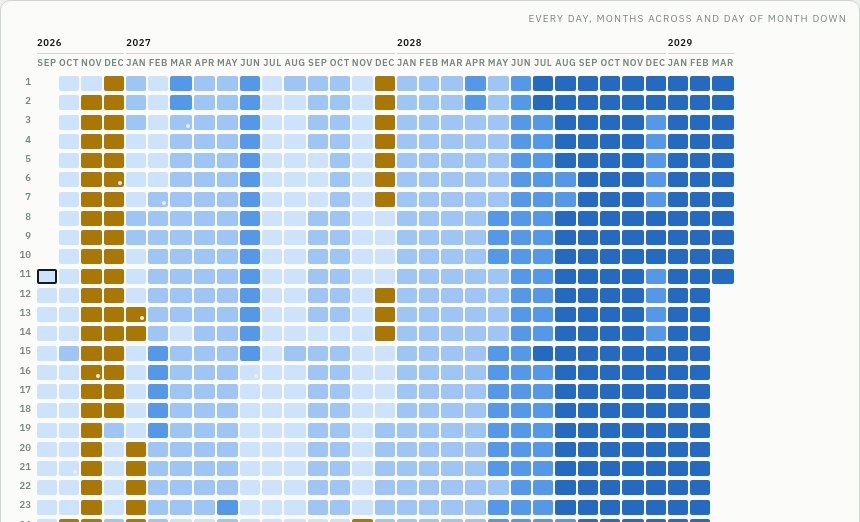
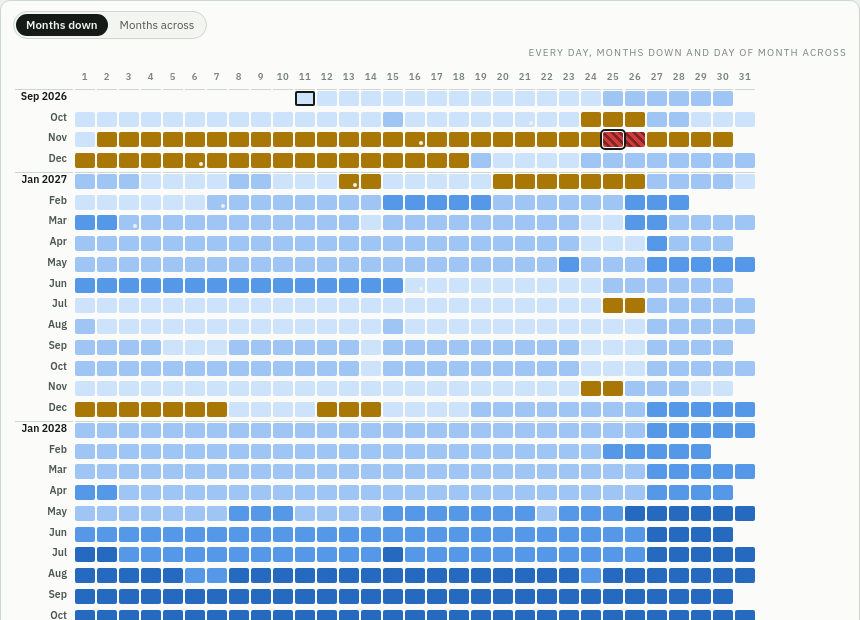
Lay the calendar out as a wall calendar, with the old way a click away
A month per row and the days across, years marked down the left: a year of days
fits on one screen that way, and a tight fortnight reads as a run of amber
rather than as a column to decode. It is the default now; "Months across" turns
it back to the prototype's layout, which packs more months into the same width.

The arrow keys follow the grain of whichever layout is on, so left and right
always mean the cell next to this one on screen — a day in the yearly layout, a
month in the compact one. The caption says which way round it is, and the model
carries both readings of the same cells, checked against each other: the two
layouts hold exactly the same days.

The layout is component state rather than a remembered preference, since this is
a trial; if it stays, it joins the others. The README's grid picture is the new
layout.

diff --git a/src/ui/GridChart.svelte b/src/ui/GridChart.svelte
@@ -16,6 +16,9 @@
 
   const grid = $derived(gridModel(forecast, forecast.buffer));
   let hovered = $state<PlainDate | null>(null);
+  /* Months down and days across reads like a wall calendar, and a year fits on
+     one screen; the other way round packs more months into less width. */
+  let layout = $state<'yearly' | 'compact'>('yearly');
 
   const readout = $derived.by(() => {
     const day = forecast.dayAt(hovered ?? target);
@@ -26,13 +29,20 @@
     }`;
   });
 
-  /** Arrow keys walk a day at a time, or a month sideways. */
+  /**
+   * Arrow keys follow the layout: they walk a day along the grain and a month
+   * across it, so left and right always mean "next to this one on screen".
+   */
   function keys(event: KeyboardEvent, date: PlainDate): void {
-    const step = { ArrowUp: -1, ArrowDown: 1 }[event.key];
+    const alongIsHorizontal = layout === 'yearly';
+    const day = { ArrowLeft: -1, ArrowRight: 1 }[event.key];
+    const month = { ArrowUp: -1, ArrowDown: 1 }[event.key];
     let next: PlainDate | null = null;
-    if (step !== undefined) next = addDays(date, step);
-    else if (event.key === 'ArrowLeft') next = addMonths(date, -1);
-    else if (event.key === 'ArrowRight') next = addMonths(date, 1);
+
+    if (alongIsHorizontal && day !== undefined) next = addDays(date, day);
+    else if (alongIsHorizontal && month !== undefined) next = addMonths(date, month);
+    else if (!alongIsHorizontal && month !== undefined) next = addDays(date, month);
+    else if (!alongIsHorizontal && day !== undefined) next = addMonths(date, day);
     else if (event.key === 'Enter' || event.key === ' ') next = date;
     else return;
 
@@ -44,14 +54,74 @@
   }
 </script>
 
+{#snippet cell(item: NonNullable<(typeof grid.rows)[number]['cells'][number]>)}
+  <button
+    type="button"
+    id={`cell-${item.date}`}
+    class="cell"
+    class:selected={item.date === target}
+    class:today={item.today}
+    data-band={item.band}
+    data-plan={item.planned ? 1 : 0}
+    tabindex={item.date === target ? 0 : -1}
+    aria-label={`${shortDate(item.date)}: ${formatEUR(item.balance, { cents: false })}, ${BAND_MEANING[item.band]}`}
+    onpointerenter={() => (hovered = item.date)}
+    onfocus={() => (hovered = item.date)}
+    onclick={() => onpick(item.date)}
+    onkeydown={(event) => keys(event, item.date)}
+  ></button>
+{/snippet}
+
 <section class="frame">
+  <div class="head">
+    <div class="layouts no-print" role="group" aria-label="How to lay the calendar out">
+      {#each [['yearly', 'Months down'], ['compact', 'Months across']] as [key, label] (key)}
+        <button
+          type="button"
+          class:on={layout === key}
+          aria-pressed={layout === key}
+          onclick={() => (layout = key as 'yearly' | 'compact')}
+        >
+          {label}
+        </button>
+      {/each}
+    </div>
+  </div>
   <p class="caption">
-    EVERY DAY, MONTHS ACROSS AND DAY OF MONTH DOWN{grid.monthsHidden > 0
+    {layout === 'yearly'
+      ? 'EVERY DAY, MONTHS DOWN AND DAY OF MONTH ACROSS'
+      : 'EVERY DAY, MONTHS ACROSS AND DAY OF MONTH DOWN'}{grid.monthsHidden > 0
       ? ` — FIRST ${grid.months.length} MONTHS, ${grid.monthsHidden} MORE NOT SHOWN`
       : ''}
   </p>
 
   <div class="scroll" use:trackPointer={{ move: () => {}, leave: () => (hovered = null) }}>
+    {#if layout === 'yearly'}
+      <table class="yearly" aria-label="Projected closing balance for every day of the forecast">
+        <thead>
+          <tr>
+            <th class="month-name"></th>
+            {#each Array.from({ length: 31 }, (_, day) => day + 1) as day (day)}
+              <th scope="col">{day}</th>
+            {/each}
+          </tr>
+        </thead>
+        <tbody>
+          {#each grid.monthRows as row (row.month)}
+            <tr class:year-start={row.startsYear}>
+              <th class="month-name" scope="row">{row.label}</th>
+              {#each row.cells as item, day (day)}
+                {#if item}
+                  <td>{@render cell(item)}</td>
+                {:else}
+                  <td class="blank"></td>
+                {/if}
+              {/each}
+            </tr>
+          {/each}
+        </tbody>
+      </table>
+    {:else}
     <table aria-label="Projected closing balance for every day of the forecast">
       <thead>
         <tr>
@@ -71,27 +141,9 @@
         {#each grid.rows as row (row.dayOfMonth)}
           <tr>
             <th class="dom" scope="row">{row.dayOfMonth}</th>
-            {#each row.cells as cell, index (grid.months[index]?.month ?? index)}
-              {#if cell}
-                <td>
-                  <button
-                    type="button"
-                    id={`cell-${cell.date}`}
-                    class="cell"
-                    class:selected={cell.date === target}
-                    class:today={cell.today}
-                    data-band={cell.band}
-                    data-plan={cell.planned ? 1 : 0}
-                    tabindex={cell.date === target ? 0 : -1}
-                    aria-label={`${shortDate(cell.date)}: ${formatEUR(cell.balance, { cents: false })}, ${
-                      BAND_MEANING[cell.band]
-                    }`}
-                    onpointerenter={() => (hovered = cell.date)}
-                    onfocus={() => (hovered = cell.date)}
-                    onclick={() => onpick(cell.date)}
-                    onkeydown={(event) => keys(event, cell.date)}
-                  ></button>
-                </td>
+            {#each row.cells as item, index (grid.months[index]?.month ?? index)}
+              {#if item}
+                <td>{@render cell(item)}</td>
               {:else}
                 <td class="blank"></td>
               {/if}
@@ -100,6 +152,7 @@
         {/each}
       </tbody>
     </table>
+    {/if}
   </div>
 
   <p class="readout" aria-live="polite">{readout}</p>
@@ -122,6 +175,50 @@
     border: 1px solid var(--rule);
     border-radius: 10px;
     padding: 10px 12px 12px;
+  }
+  .head {
+    display: flex;
+    justify-content: flex-start;
+  }
+  .layouts {
+    display: inline-flex;
+    gap: 2px;
+    margin-bottom: 6px;
+    padding: 2px;
+    background: var(--sheet-2);
+    border: 1px solid var(--rule);
+    border-radius: 999px;
+  }
+  .layouts button {
+    font-size: 11.5px;
+    color: var(--ink-2);
+    background: none;
+    border: 0;
+    border-radius: 999px;
+    padding: 2px 10px;
+  }
+  .layouts button.on {
+    background: var(--ink);
+    color: var(--paper);
+    font-weight: 600;
+  }
+  table.yearly th.month-name {
+    width: 58px;
+    text-align: right;
+    padding-right: 6px;
+    color: var(--ink-2);
+    text-transform: none;
+    letter-spacing: 0;
+    font-size: 10.5px;
+    white-space: nowrap;
+  }
+  table.yearly tr.year-start th.month-name {
+    color: var(--ink);
+    font-weight: 700;
+  }
+  table.yearly tr.year-start td,
+  table.yearly tr.year-start th {
+    box-shadow: inset 0 2px 0 -1px var(--rule);
   }
   .caption {
     margin: 0 0 8px;

diff --git a/e2e/views.spec.ts b/e2e/views.spec.ts
@@ -65,23 +65,6 @@ test.describe('the two readings', () => {
     await expect(answer(page)).toContainText('€');
   });
 
-  test('the grid cells walk a day at a time and a month sideways', async ({ page }) => {
-    await openFresh(page);
-    await page.getByRole('button', { name: 'Grid', exact: true }).click();
-    const selected = page.locator('.cell.selected');
-    await selected.focus();
-    const before = await page.getByLabel('Date to read the balance on').inputValue();
-
-    await page.keyboard.press('ArrowDown');
-    const next = await page.getByLabel('Date to read the balance on').inputValue();
-    expect(Date.parse(next)).toBe(Date.parse(before) + 86_400_000);
-
-    await page.keyboard.press('ArrowLeft');
-    expect(Date.parse(await page.getByLabel('Date to read the balance on').inputValue())).toBeLessThan(
-      Date.parse(next)
-    );
-  });
-
   test('remembers which reading was on screen', async ({ page }) => {
     await openFresh(page);
     await page.getByRole('button', { name: 'Grid', exact: true }).click();
@@ -385,5 +368,51 @@ test.describe('the month detail order', () => {
     await page.getByRole('button', { name: /^The month after/ }).click();
     const down = await amounts(page);
     expect([...down].sort((a, b) => b - a)).toEqual(down);
+  });
+});
+
+test.describe('the calendar layout', () => {
+  test('reads as a wall calendar by default: a month a row, days across', async ({ page }) => {
+    await openFresh(page);
+    await page.getByRole('button', { name: 'Grid', exact: true }).click();
+
+    await expect(page.getByRole('button', { name: 'Months down' })).toHaveAttribute('aria-pressed', 'true');
+    await expect(page.locator('table.yearly')).toBeVisible();
+    await expect(page.locator('table.yearly tbody tr')).toHaveCount(31); // one per month of the forecast
+    await expect(page.locator('table.yearly thead th').nth(1)).toHaveText('1');
+    await expect(page.locator('table.yearly tbody th').first()).toHaveText('Sep 2026');
+    await expect(page.locator('.frame .caption')).toContainText('MONTHS DOWN');
+  });
+
+  test('turns the other way when asked, keeping every day', async ({ page }) => {
+    await openFresh(page);
+    await page.getByRole('button', { name: 'Grid', exact: true }).click();
+    const cells = await page.locator('.cell').count();
+
+    await page.getByRole('button', { name: 'Months across' }).click();
+    await expect(page.locator('table.yearly')).toHaveCount(0);
+    await expect(page.locator('.frame .caption')).toContainText('MONTHS ACROSS');
+    expect(await page.locator('.cell').count()).toBe(cells);
+  });
+
+  test('walks the arrow keys along the grain of whichever layout is on', async ({ page }) => {
+    await openFresh(page);
+    await page.getByRole('button', { name: 'Grid', exact: true }).click();
+    const field = page.getByLabel('Date to read the balance on');
+
+    await page.locator('.cell.selected').focus();
+    const start = await field.inputValue();
+    /* Months down: sideways is a day, up and down is a month. */
+    await page.keyboard.press('ArrowRight');
+    expect(Date.parse(await field.inputValue())).toBe(Date.parse(start) + 86_400_000);
+    await page.keyboard.press('ArrowDown');
+    expect(await field.inputValue()).not.toBe(start);
+
+    await page.getByRole('button', { name: 'Months across' }).click();
+    await page.locator('.cell.selected').focus();
+    const compactStart = await field.inputValue();
+    /* Months across: down is a day, sideways is a month. */
+    await page.keyboard.press('ArrowDown');
+    expect(Date.parse(await field.inputValue())).toBe(Date.parse(compactStart) + 86_400_000);
   });
 });

diff --git a/tests/gridModel.test.ts b/tests/gridModel.test.ts
@@ -91,3 +91,42 @@ describe('a very long horizon', () => {
     expect(grid.monthsHidden).toBe(0);
   });
 });
+
+describe('the yearly layout, months down and days across', () => {
+  it('gives one row per month, each thirty-one cells wide', () => {
+    expect(grid.monthRows).toHaveLength(grid.months.length);
+    for (const row of grid.monthRows) expect(row.cells).toHaveLength(31);
+  });
+
+  it('puts each day in the column of its own date', () => {
+    const september = grid.monthRows[0]!;
+    expect(september.month).toBe('2026-09');
+    expect(september.cells[0]).toBeNull(); // the forecast starts on the 11th
+    expect(september.cells[10]?.date).toBe('2026-09-11');
+    expect(september.cells[29]?.date).toBe('2026-09-30');
+    expect(september.cells[30]).toBeNull(); // September has thirty days
+  });
+
+  it('holds exactly the days of the forecast, like the other layout', () => {
+    const across = grid.monthRows.flatMap((row) => row.cells).filter((cell) => cell !== null);
+    const down = grid.rows.flatMap((row) => row.cells).filter((cell) => cell !== null);
+    expect(across).toHaveLength(down.length);
+    expect(across.map((cell) => cell!.date).sort()).toEqual(down.map((cell) => cell!.date).sort());
+  });
+
+  it('says which year each row belongs to, and where a year starts', () => {
+    const first = grid.monthRows[0]!;
+    expect(first.year).toBe('2026');
+    expect(first.startsYear).toBe(true);
+    const january = grid.monthRows.find((row) => row.month.endsWith('-01'))!;
+    expect(january.startsYear).toBe(true);
+    const february = grid.monthRows.find((row) => row.month === '2027-02')!;
+    expect(february.startsYear).toBe(false);
+    expect(february.year).toBe('2027');
+  });
+
+  it('labels a row the way a month is said, with the year on the first of each', () => {
+    expect(grid.monthRows[0]?.label).toBe('Sep 2026');
+    expect(grid.monthRows.find((row) => row.month === '2026-10')?.label).toBe('Oct');
+  });
+});

diff --git a/src/ui/chart/gridModel.ts b/src/ui/chart/gridModel.ts
@@ -47,10 +47,22 @@ export interface GridRow {
   cells: (Cell | null)[];
 }
 
+/** A month read across rather than down: thirty-one day columns. */
+export interface MonthRow {
+  month: MonthKey;
+  /** "Sep 2026" on the first month of a year, "Oct" after that. */
+  label: string;
+  year: string;
+  startsYear: boolean;
+  /** One entry per day of the month; null outside the month or the forecast. */
+  cells: (Cell | null)[];
+}
+
 export interface GridModel {
   months: { month: MonthKey; label: string }[];
   years: { year: string; span: number }[];
   rows: GridRow[];
+  monthRows: MonthRow[];
   underBuffer: number;
   buffer: Cents;
   /** Months the grid is not showing, because a cell each would be thousands. */
@@ -114,5 +126,22 @@ export function gridModel(forecast: Forecast, buffer: Cents, maxMonths = MAX_MON
     });
   }
 
-  return { months, years, rows, underBuffer, buffer, monthsHidden };
+  /* The same cells read the other way: a month per row, a day per column, which
+     is how a wall calendar is laid out. */
+  const monthRows: MonthRow[] = months.map(({ month, label }, index) => {
+    const year = month.slice(0, 4);
+    const startsYear = index === 0 || months[index - 1]?.month.slice(0, 4) !== year;
+    return {
+      month,
+      label: startsYear ? `${label} ${year}` : label,
+      year,
+      startsYear,
+      cells: Array.from(
+        { length: 31 },
+        (_, day) => byDate.get(`${month}-${String(day + 1).padStart(2, '0')}` as PlainDate) ?? null
+      )
+    };
+  });
+
+  return { months, years, rows, monthRows, underBuffer, buffer, monthsHidden };
 }

diff --git a/docs/flow-views.md b/docs/flow-views.md
@@ -41,6 +41,18 @@ it.
 This is the plainest thing in the app and probably the most useful: no reading
 required, only glancing.
 
+## The calendar, laid out either way
+
+The grid reads as a wall calendar by default: a month per row, the days across,
+years marked down the left. A year of days fits on one screen that way, and the
+tight weeks show up as amber runs rather than as a column to decode.
+
+"Months across" turns it back — months as columns, day of month down — which
+packs far more months into the same width and is what the original prototype
+did. The arrow keys follow the grain either way: sideways is always the next day
+in the yearly layout and the next month in the compact one, so left and right
+mean "next to this one on screen" rather than something fixed.
+
 ## Also on this branch
 
 - **Part months are marked.** The first and last months of a forecast are

diff --git a/README.md b/README.md
@@ -44,7 +44,7 @@ anywhere. The app says so the first time it opens, and says how to take a copy:
   | **River** | monthly flow above the balance it leaves (the picture above) |
   | **Balance** | the daily line on its own, with the band and the buffer |
   | **Month ends** | one bar per month — where it leaves you, or its total in or out |
-  | **Grid** | every day as one cell, coloured by that evening's closing balance |
+  | **Grid** | every day as one cell, coloured by that evening's closing balance — a month a row and days across, or turned the other way to pack more months in |
   | **Flow** | a Sankey of where the money came from and went over a chosen period |
 
   ![Month ends](docs/screens/view-ends.png)
